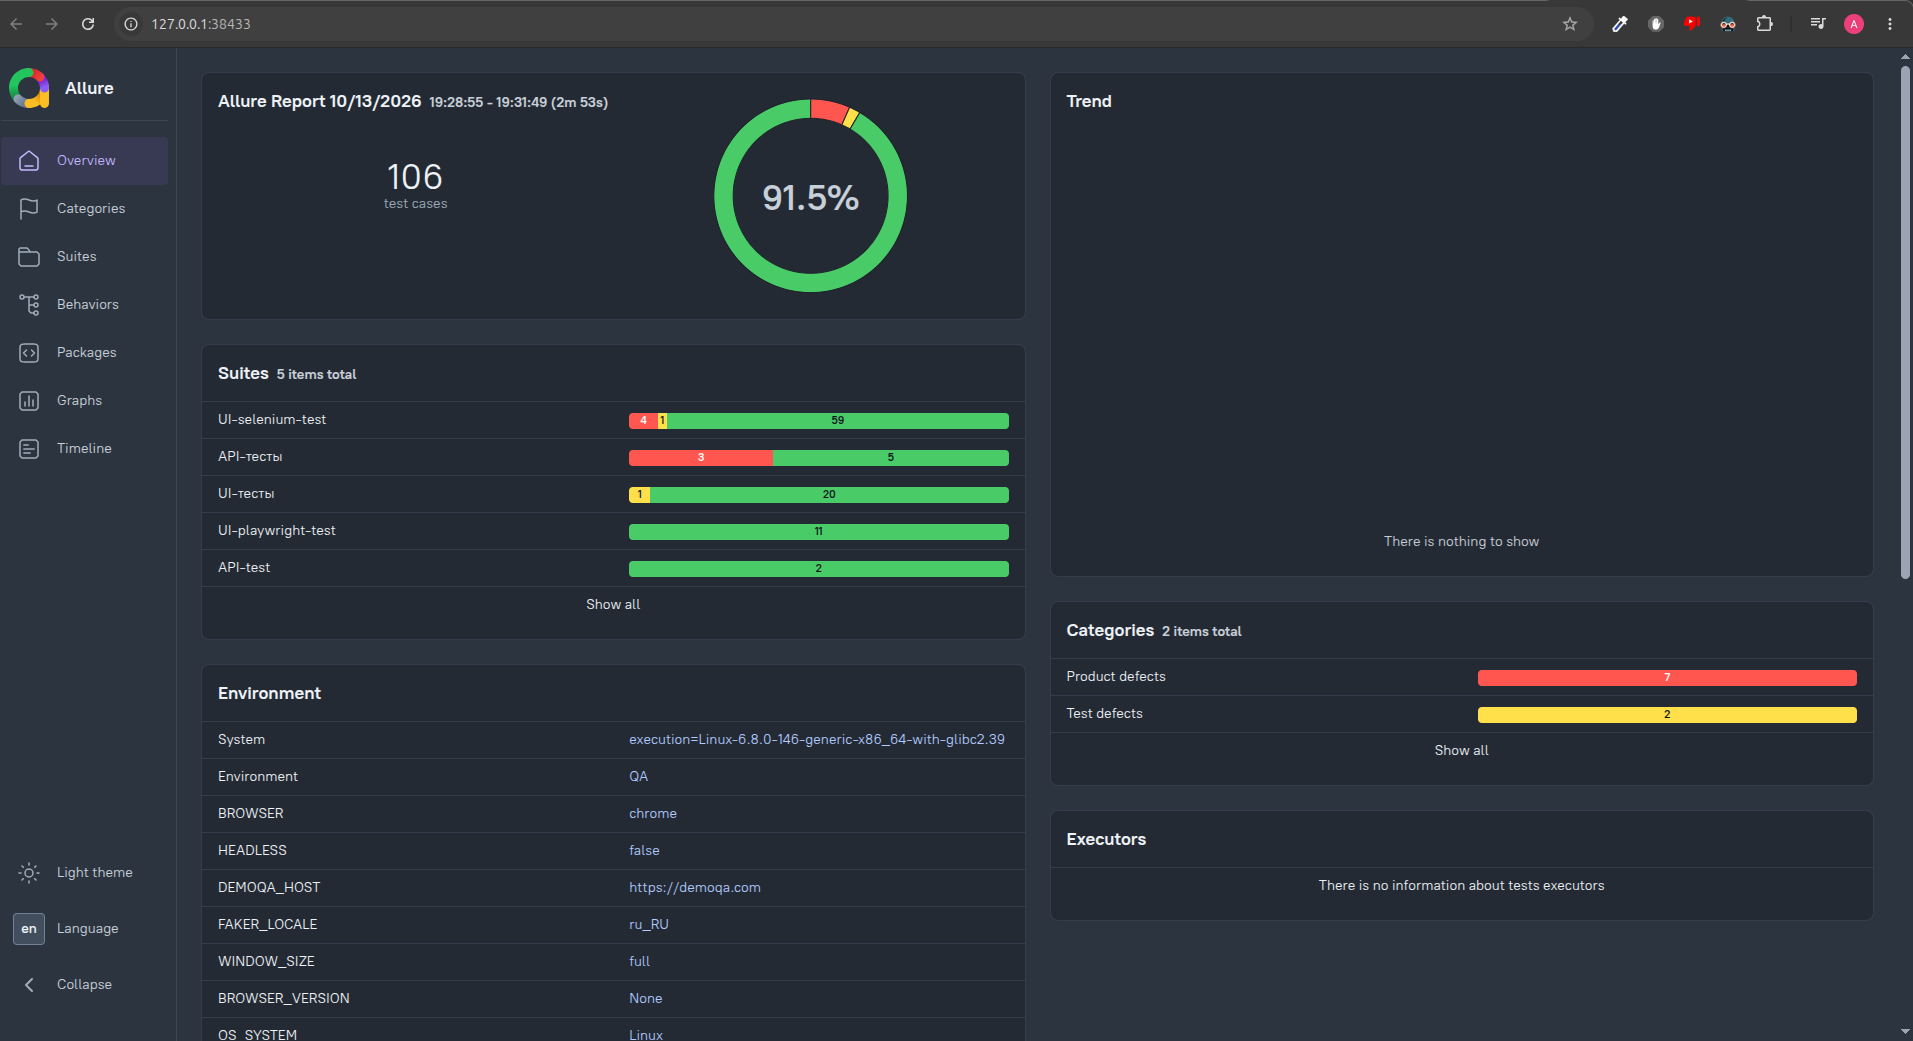
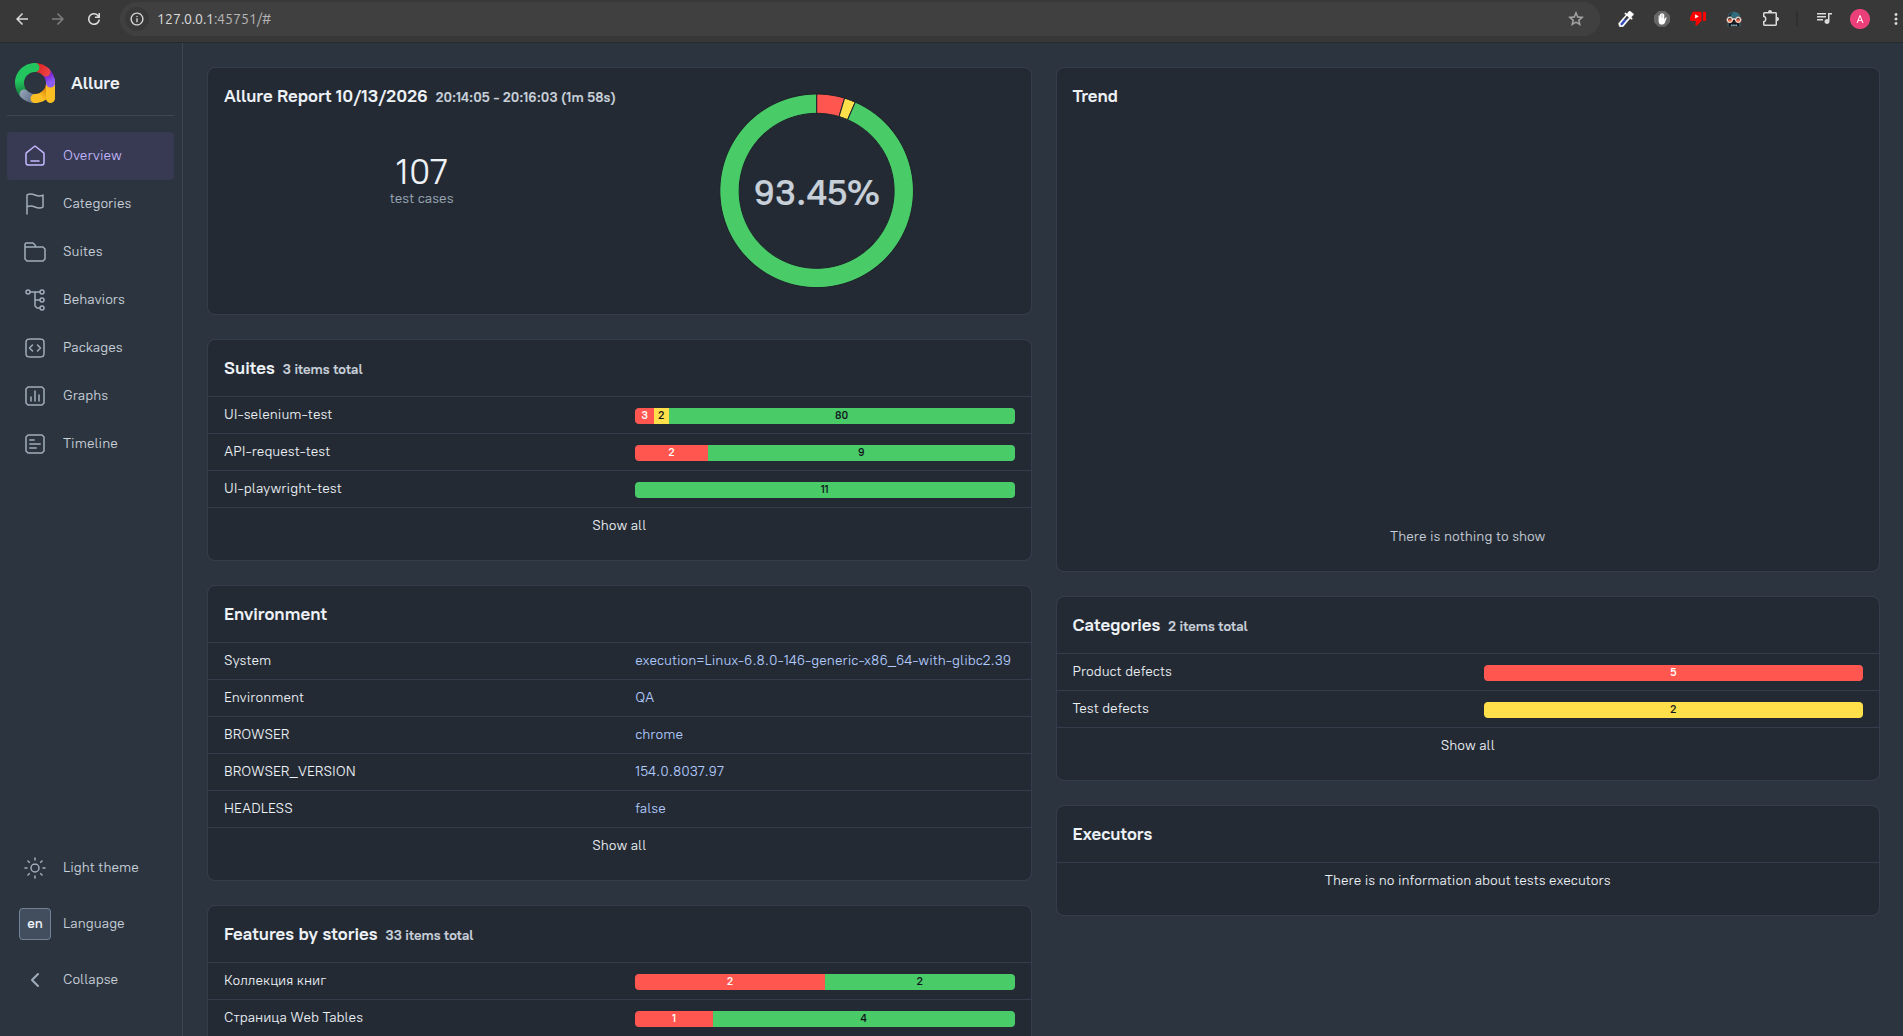
add: browser version to env

diff --git a/conftest.py b/conftest.py
@@ -1,7 +1,10 @@
 import os
 import platform
 import random
+import re
 import shutil
+import subprocess
+from importlib.metadata import version, PackageNotFoundError
 
 import allure
 import pytest
@@ -11,6 +14,73 @@ from faker import Faker
 env_file = find_dotenv(".env", raise_error_if_not_found=False)
 if env_file:
     load_dotenv(env_file)
+
+
+def _get_package_version(package_name: str) -> str:
+    try:
+        return version(package_name)
+    except PackageNotFoundError:
+        return "unknown"
+
+
+_BROWSER_BINARIES = {
+    "chrome": [
+        "google-chrome", "google-chrome-stable", "chrome",
+        "/Applications/Google Chrome.app/Contents/MacOS/Google Chrome",
+    ],
+    "chromium": ["chromium", "chromium-browser"],
+    "firefox": [
+        "firefox",
+        "/Applications/Firefox.app/Contents/MacOS/firefox",
+    ],
+    "edge": [
+        "microsoft-edge", "microsoft-edge-stable", "msedge",
+        "/Applications/Microsoft Edge.app/Contents/MacOS/Microsoft Edge",
+    ],
+}
+
+_WINDOWS_REGISTRY = {
+    "chrome": r"HKCU\Software\Google\Chrome\BLBeacon",
+    "edge": r"HKCU\Software\Microsoft\Edge\BLBeacon",
+}
+
+
+def _get_browser_version(browser: str | None) -> str:
+    """Версия браузера: из BROWSER_VERSION, иначе определяется по установленному браузеру."""
+    explicit = os.environ.get("BROWSER_VERSION")
+    if explicit:
+        return explicit
+
+    browser = (browser or "chrome").lower()
+
+    # Windows: бинарники не отвечают на --version, читаем из реестра
+    if platform.system() == "Windows" and browser in _WINDOWS_REGISTRY:
+        try:
+            out = subprocess.run(
+                ["reg", "query", _WINDOWS_REGISTRY[browser], "/v", "version"],
+                capture_output=True, text=True, timeout=10,
+            ).stdout
+            match = re.search(r"(\d+\.\d+\.\d+\.\d+)", out)
+            if match:
+                return match.group(1)
+        except (OSError, subprocess.SubprocessError):
+            pass
+
+    for binary in _BROWSER_BINARIES.get(browser, []):
+        path = shutil.which(binary) or (binary if os.path.isfile(binary) else None)
+        if not path:
+            continue
+        try:
+            out = subprocess.run(
+                [path, "--version"], capture_output=True, text=True, timeout=10
+            ).stdout
+            match = re.search(r"(\d+(?:\.\d+)+)", out)
+            if match:
+                return match.group(1)
+        except (OSError, subprocess.SubprocessError):
+            continue
+
+    return "unknown"
 
 
 @pytest.fixture(scope="session")
@@ -28,15 +98,19 @@ def fake(faker_seed: int, request) -> Faker:
 
 def pytest_configure(config):
     """Хук инициализации конфигурации Pytest и подготовки истории Allure."""
+    browser = os.environ.get("BROWSER")
     env_data = {
         "System execution": platform.platform(),
         "Environment": os.environ.get("ENVIRONMENT", "QA"),
-        "BROWSER": os.environ.get("BROWSER"),
+        "BROWSER": browser,
+        "BROWSER_VERSION": _get_browser_version(browser),
         "HEADLESS": os.environ.get("HEADLESS"),
         "DEMOQA_HOST": os.environ.get("DEMOQA_HOST"),
         "FAKER_LOCALE": os.environ.get("FAKER_LOCALE"),
         "WINDOW_SIZE": os.environ.get("WINDOW_SIZE"),
-        "BROWSER_VERSION": os.environ.get("BROWSER_VERSION"),
+        "SELENIUM_VERSION": _get_package_version("selenium"),
+        "PYTEST_VERSION": _get_package_version("pytest"),
+        "ALLURE_PYTEST_VERSION": _get_package_version("allure-pytest"),
         "OS_SYSTEM": platform.system(),
         "OS_RELEASE": platform.release(),
         "OS_VERSION": platform.version(),

diff --git a/README.md b/README.md
@@ -124,5 +124,3 @@ allure serve output/allure-results
 - [ ] Дописать UI-selenium-test для [`test_9_select_menu.py`](src/ui/demoq/selenium/tests/widgets/test_9_select_menu.py)
 - [ ] Изучить async и flaky-тесты
 - [ ] Определить оптимальное число потоков для параллельного запуска
-- [ ] Поправить сломанные тесты
-- [ ] Добавить версию браузера
